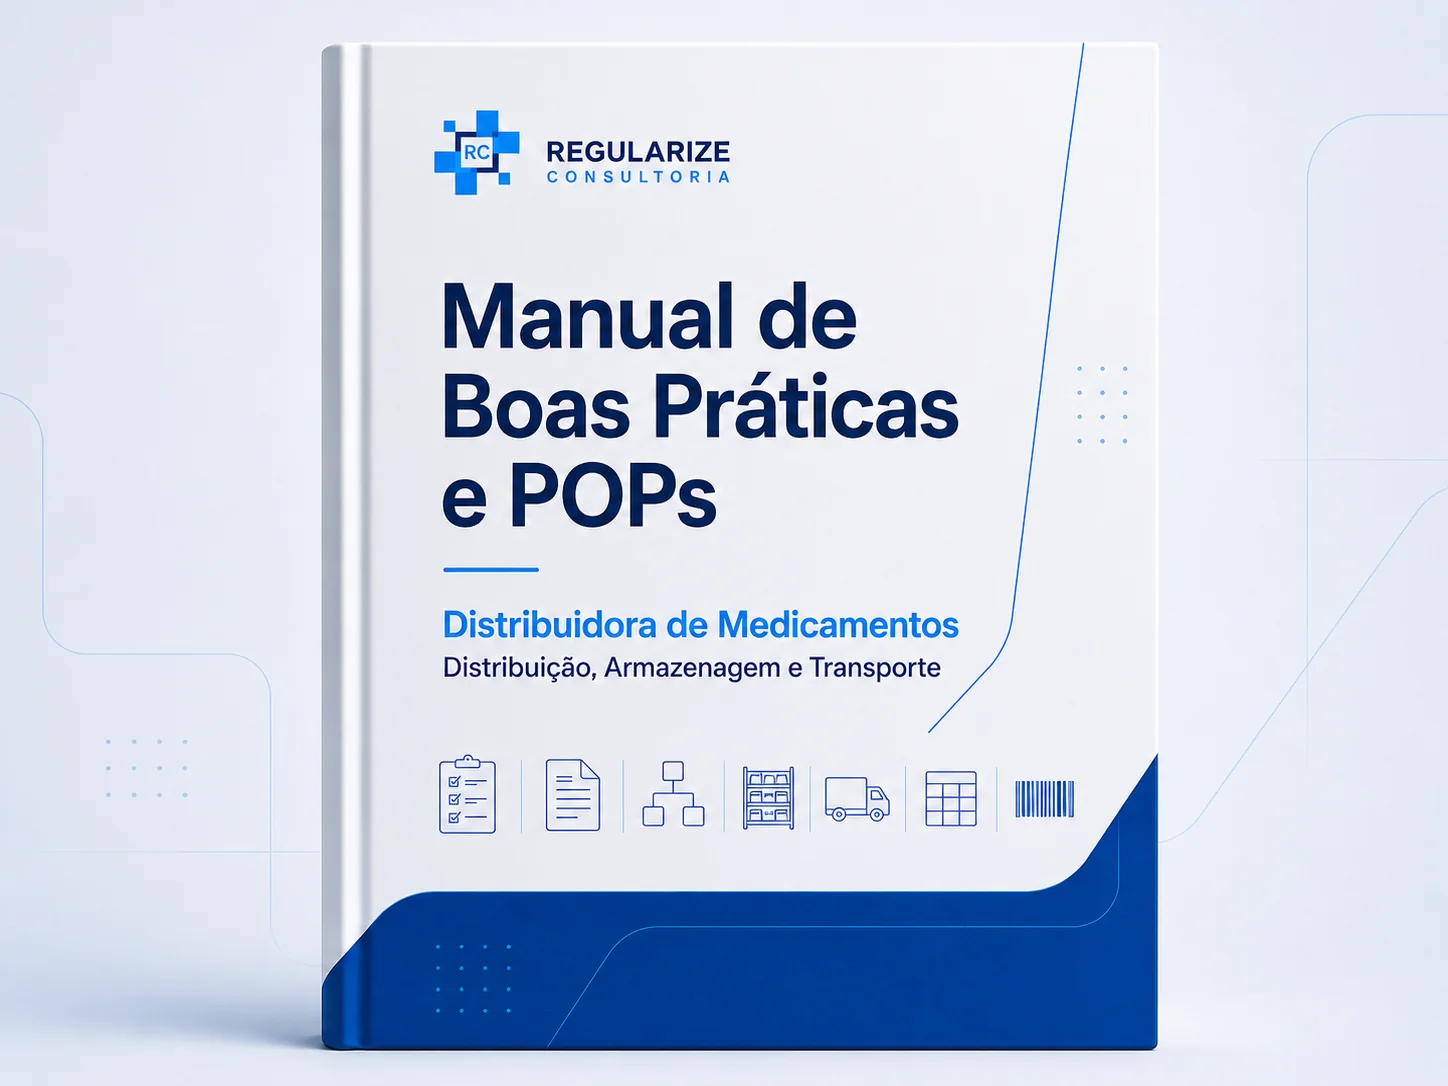
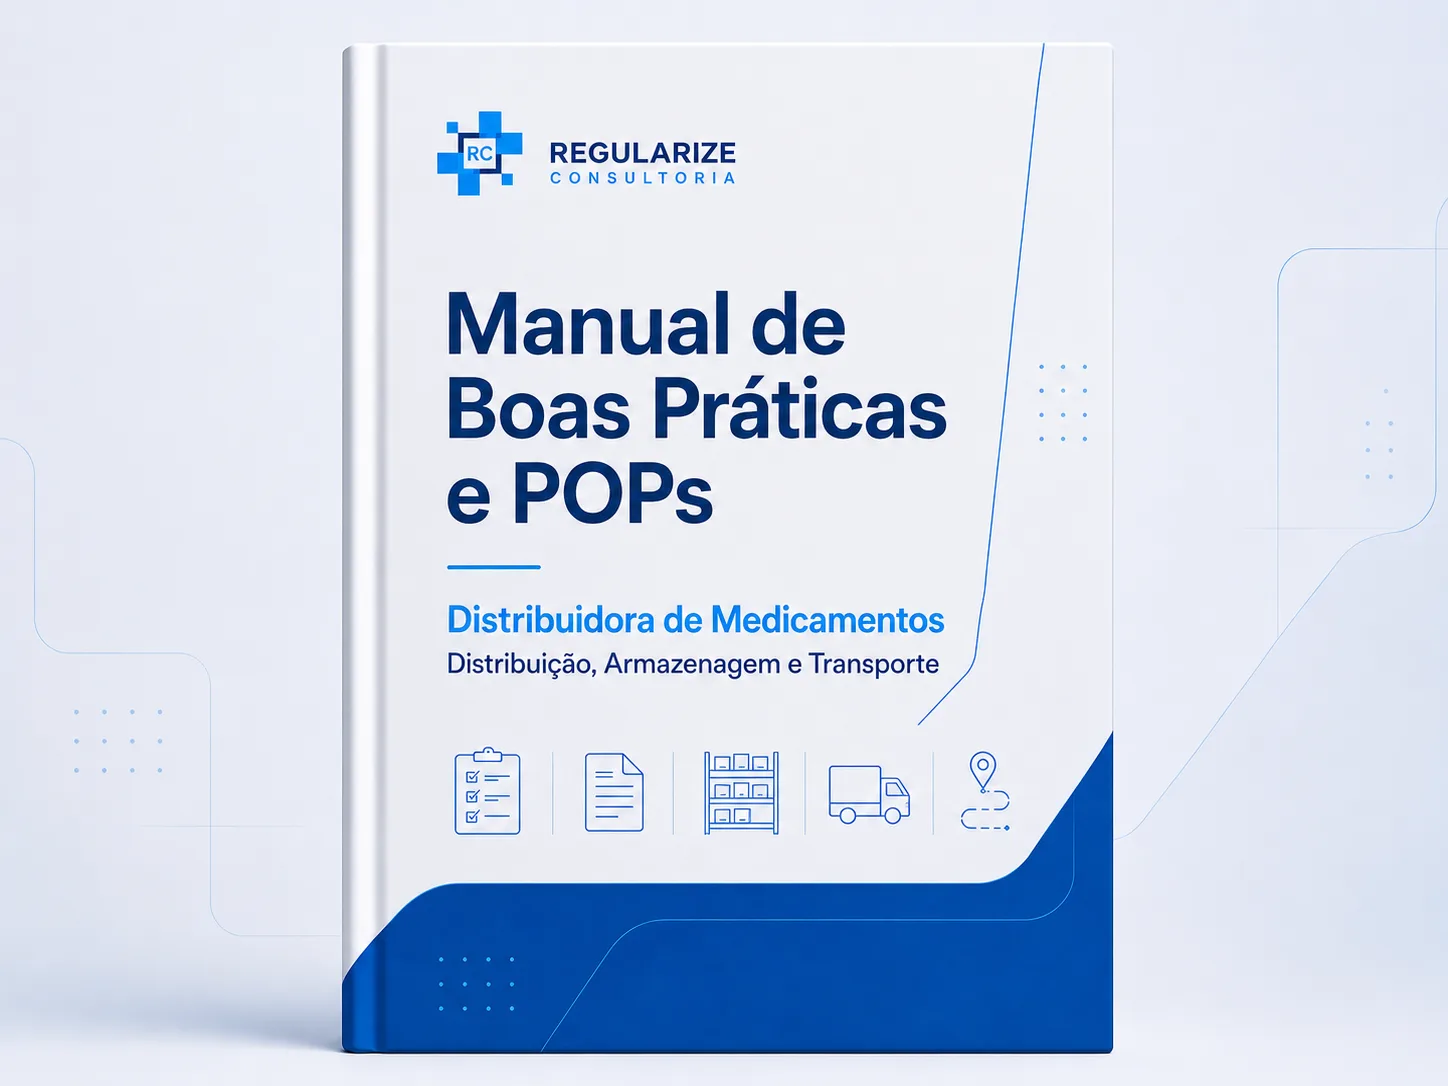
Atualiza cards e seção consultiva de Manuais e POPs

diff --git a/manuais-e-pops/index.html b/manuais-e-pops/index.html
@@ -286,12 +286,8 @@
             </div>
           </article>
           <article class="manuals-catalog-card manuals-catalog-card--passive bg-white rounded-2xl border border-slate-100 p-5 sm:p-6">
-            <div class="manuals-card-cover" aria-hidden="true">
-              <span class="manuals-document-mockup">
-                <span></span>
-                <span></span>
-                <span></span>
-              </span>
+            <div class="manuals-card-cover manuals-card-cover--image">
+              <img src="/assets/img/manuais-e-pops/drogarias-farmacias-card.webp" alt="Ilustração do card Manual de Boas Práticas e POPs — Farmácias e Drogarias" loading="lazy" width="1448" height="1086" class="manuals-card-image" />
             </div>
             <span class="manuals-card-tag">Drogarias</span>
             <h3 class="text-lg font-bold text-slate-900 mt-4 mb-3">Manual de Boas Práticas e POPs — Farmácias e Drogarias</h3>
@@ -301,13 +297,9 @@
               <a href="/whatsapp/?text=Ol%C3%A1%2C%20tenho%20interesse%20no%20Manual%20de%20Boas%20Pr%C3%A1ticas%20e%20POPs%20para%20Farm%C3%A1cias%20e%20Drogarias%20e%20gostaria%20de%20solicitar%20uma%20an%C3%A1lise%20e%20or%C3%A7amento." class="manuals-card-link" target="_blank" rel="noopener noreferrer">Solicitar orçamento</a>
             </div>
           </article>
-          <article class="manuals-catalog-card manuals-catalog-card--passive bg-white rounded-2xl border border-slate-100 p-5 sm:p-6">
-            <div class="manuals-card-cover" aria-hidden="true">
-              <span class="manuals-document-mockup">
-                <span></span>
-                <span></span>
-                <span></span>
-              </span>
+          <article class="manuals-catalog-card manuals-catalog-card--passive bg-white rounded-2xl border border-slate-100 p-5 sm:p-6" hidden>
+            <div class="manuals-card-cover manuals-card-cover--image">
+              <img src="/assets/img/manuais-e-pops/farmacia-manipulacao-card.webp" alt="Ilustração do card Manual de Boas Práticas e POPs — Farmácia de Manipulação" loading="lazy" width="1448" height="1086" class="manuals-card-image" />
             </div>
             <span class="manuals-card-tag">Manipulação</span>
             <h3 class="text-lg font-bold text-slate-900 mt-4 mb-3">Manual de Boas Práticas e POPs — Farmácia de Manipulação</h3>
@@ -317,13 +309,9 @@
               <a href="/whatsapp/?text=Ol%C3%A1%2C%20tenho%20interesse%20no%20Manual%20de%20Boas%20Pr%C3%A1ticas%20e%20POPs%20para%20Farm%C3%A1cia%20de%20Manipula%C3%A7%C3%A3o%20e%20gostaria%20de%20solicitar%20uma%20an%C3%A1lise%20e%20or%C3%A7amento." class="manuals-card-link" target="_blank" rel="noopener noreferrer">Solicitar orçamento</a>
             </div>
           </article>
-          <article class="manuals-catalog-card manuals-catalog-card--passive bg-white rounded-2xl border border-slate-100 p-5 sm:p-6">
-            <div class="manuals-card-cover" aria-hidden="true">
-              <span class="manuals-document-mockup">
-                <span></span>
-                <span></span>
-                <span></span>
-              </span>
+          <article class="manuals-catalog-card manuals-catalog-card--passive bg-white rounded-2xl border border-slate-100 p-5 sm:p-6" hidden>
+            <div class="manuals-card-cover manuals-card-cover--image">
+              <img src="/assets/img/manuais-e-pops/clinica-vacinas-card.webp" alt="Ilustração do card Manual de Boas Práticas e POPs — Clínica de Vacinas" loading="lazy" width="1448" height="1086" class="manuals-card-image" />
             </div>
             <span class="manuals-card-tag">Vacinas</span>
             <h3 class="text-lg font-bold text-slate-900 mt-4 mb-3">Manual de Boas Práticas e POPs — Clínica de Vacinas</h3>
@@ -333,13 +321,9 @@
               <a href="/whatsapp/?text=Ol%C3%A1%2C%20tenho%20interesse%20no%20Manual%20de%20Boas%20Pr%C3%A1ticas%20e%20POPs%20para%20Cl%C3%ADnica%20de%20Vacinas%20e%20gostaria%20de%20solicitar%20uma%20an%C3%A1lise%20e%20or%C3%A7amento." class="manuals-card-link" target="_blank" rel="noopener noreferrer">Solicitar orçamento</a>
             </div>
           </article>
-          <article class="manuals-catalog-card manuals-catalog-card--passive bg-white rounded-2xl border border-slate-100 p-5 sm:p-6">
-            <div class="manuals-card-cover" aria-hidden="true">
-              <span class="manuals-document-mockup">
-                <span></span>
-                <span></span>
-                <span></span>
-              </span>
+          <article class="manuals-catalog-card manuals-catalog-card--passive bg-white rounded-2xl border border-slate-100 p-5 sm:p-6" hidden>
+            <div class="manuals-card-cover manuals-card-cover--image">
+              <img src="/assets/img/manuais-e-pops/produtos-para-saude-card.webp" alt="Ilustração do card Manual de Boas Práticas e POPs — Produtos para Saúde" loading="lazy" width="1448" height="1086" class="manuals-card-image" />
             </div>
             <span class="manuals-card-tag">Produtos para Saúde</span>
             <h3 class="text-lg font-bold text-slate-900 mt-4 mb-3">Manual de Boas Práticas e POPs — Produtos para Saúde</h3>
@@ -349,13 +333,9 @@
               <a href="/whatsapp/?text=Ol%C3%A1%2C%20tenho%20interesse%20no%20Manual%20de%20Boas%20Pr%C3%A1ticas%20e%20POPs%20para%20Produtos%20para%20Sa%C3%BAde%20e%20gostaria%20de%20solicitar%20uma%20an%C3%A1lise%20e%20or%C3%A7amento." class="manuals-card-link" target="_blank" rel="noopener noreferrer">Solicitar orçamento</a>
             </div>
           </article>
-          <article class="manuals-catalog-card manuals-catalog-card--passive bg-white rounded-2xl border border-slate-100 p-5 sm:p-6">
-            <div class="manuals-card-cover" aria-hidden="true">
-              <span class="manuals-document-mockup">
-                <span></span>
-                <span></span>
-                <span></span>
-              </span>
+          <article class="manuals-catalog-card manuals-catalog-card--passive bg-white rounded-2xl border border-slate-100 p-5 sm:p-6" hidden>
+            <div class="manuals-card-cover manuals-card-cover--image">
+              <img src="/assets/img/manuais-e-pops/transportadoras-card.webp" alt="Ilustração do card Manual de Boas Práticas e POPs — Transportadoras" loading="lazy" width="1448" height="1086" class="manuals-card-image" />
             </div>
             <span class="manuals-card-tag">Transportadoras</span>
             <h3 class="text-lg font-bold text-slate-900 mt-4 mb-3">Manual de Boas Práticas e POPs — Transportadoras</h3>
@@ -365,13 +345,9 @@
               <a href="/whatsapp/?text=Ol%C3%A1%2C%20tenho%20interesse%20no%20Manual%20de%20Boas%20Pr%C3%A1ticas%20e%20POPs%20para%20Transportadoras%20e%20gostaria%20de%20solicitar%20uma%20an%C3%A1lise%20e%20or%C3%A7amento." class="manuals-card-link" target="_blank" rel="noopener noreferrer">Solicitar orçamento</a>
             </div>
           </article>
-          <article class="manuals-catalog-card manuals-catalog-card--passive bg-white rounded-2xl border border-slate-100 p-5 sm:p-6">
-            <div class="manuals-card-cover" aria-hidden="true">
-              <span class="manuals-document-mockup">
-                <span></span>
-                <span></span>
-                <span></span>
-              </span>
+          <article class="manuals-catalog-card manuals-catalog-card--passive bg-white rounded-2xl border border-slate-100 p-5 sm:p-6" hidden>
+            <div class="manuals-card-cover manuals-card-cover--image">
+              <img src="/assets/img/manuais-e-pops/pgrss-card.webp" alt="Ilustração do card PGRSS — Plano de Gerenciamento de Resíduos de Serviços de Saúde" loading="lazy" width="1448" height="1086" class="manuals-card-image" />
             </div>
             <span class="manuals-card-tag">Resíduos</span>
             <h3 class="text-lg font-bold text-slate-900 mt-4 mb-3">PGRSS — Plano de Gerenciamento de Resíduos de Serviços de Saúde</h3>
@@ -381,13 +357,9 @@
               <a href="/whatsapp/?text=Ol%C3%A1%2C%20tenho%20interesse%20em%20PGRSS%20-%20Plano%20de%20Gerenciamento%20de%20Res%C3%ADduos%20de%20Servi%C3%A7os%20de%20Sa%C3%BAde%20e%20gostaria%20de%20solicitar%20uma%20an%C3%A1lise%20e%20or%C3%A7amento." class="manuals-card-link" target="_blank" rel="noopener noreferrer">Solicitar orçamento</a>
             </div>
           </article>
-          <article class="manuals-catalog-card manuals-catalog-card--passive bg-white rounded-2xl border border-slate-100 p-5 sm:p-6">
-            <div class="manuals-card-cover" aria-hidden="true">
-              <span class="manuals-document-mockup">
-                <span></span>
-                <span></span>
-                <span></span>
-              </span>
+          <article class="manuals-catalog-card manuals-catalog-card--passive bg-white rounded-2xl border border-slate-100 p-5 sm:p-6" hidden>
+            <div class="manuals-card-cover manuals-card-cover--image">
+              <img src="/assets/img/manuais-e-pops/cosmeticos-saneantes-card.webp" alt="Ilustração do card Manual de Boas Práticas e POPs — Cosméticos e Saneantes" loading="lazy" width="1448" height="1086" class="manuals-card-image" />
             </div>
             <span class="manuals-card-tag">Cosméticos e Saneantes</span>
             <h3 class="text-lg font-bold text-slate-900 mt-4 mb-3">Manual de Boas Práticas e POPs — Cosméticos e Saneantes</h3>
@@ -398,17 +370,33 @@
             </div>
           </article>
         </div>
-        <div class="mt-8 sm:mt-10">
+        <div class="manuals-catalog-followup">
           <div class="manuals-section-heading">
             <span class="manuals-eyebrow">Outras rotinas reguladas</span>
             <h3 class="text-xl sm:text-2xl font-bold tracking-tight text-slate-900 mb-3">Também podemos orientar mediante análise</h3>
             <p class="text-slate-500 leading-relaxed">Algumas atividades exigem avaliação específica antes de definir o material adequado, conforme serviço prestado, estrutura, produtos envolvidos e exigências locais.</p>
           </div>
           <div class="manuals-type-grid">
-            <article><strong>Clínica/Consultório Odontológico</strong><span>Orientação documental conforme serviços, resíduos gerados, fluxos de atendimento e rotinas informadas.</span></article>
-            <article><strong>Laboratórios / Análises Clínicas</strong><span>Materiais técnicos conforme serviços executados, registros, responsabilidades e processos internos.</span></article>
-            <article><strong>Insumos Farmacêuticos</strong><span>Análise de documentos conforme atividade, armazenamento, fracionamento, expedição e controles aplicáveis.</span></article>
-            <article><strong>Operadores Logísticos</strong><span>Orientação conforme produtos movimentados, armazenamento, transporte, rastreabilidade e estrutura operacional.</span></article>
+            <article>
+              <strong>Clínica/Consultório Odontológico</strong>
+              <span>Orientação documental conforme serviços, resíduos gerados, fluxos de atendimento e rotinas informadas.</span>
+              <a href="/whatsapp/?text=Ol%C3%A1%2C%20gostaria%20de%20solicitar%20uma%20an%C3%A1lise%20para%20Cl%C3%ADnica%2FConsult%C3%B3rio%20Odontol%C3%B3gico%20e%20entender%20qual%20material%2C%20orienta%C3%A7%C3%A3o%20ou%20documenta%C3%A7%C3%A3o%20%C3%A9%20mais%20adequada%20para%20minha%20rotina." class="manuals-card-link manuals-card-link--secondary" target="_blank" rel="noopener noreferrer">Solicitar análise</a>
+            </article>
+            <article>
+              <strong>Laboratórios / Análises Clínicas</strong>
+              <span>Materiais técnicos conforme serviços executados, registros, responsabilidades e processos internos.</span>
+              <a href="/whatsapp/?text=Ol%C3%A1%2C%20gostaria%20de%20solicitar%20uma%20an%C3%A1lise%20para%20Laborat%C3%B3rios%20%2F%20An%C3%A1lises%20Cl%C3%ADnicas%20e%20entender%20qual%20material%2C%20orienta%C3%A7%C3%A3o%20ou%20documenta%C3%A7%C3%A3o%20%C3%A9%20mais%20adequada%20para%20minha%20rotina." class="manuals-card-link manuals-card-link--secondary" target="_blank" rel="noopener noreferrer">Solicitar análise</a>
+            </article>
+            <article>
+              <strong>Insumos Farmacêuticos</strong>
+              <span>Análise de documentos conforme atividade, armazenamento, fracionamento, expedição e controles aplicáveis.</span>
+              <a href="/whatsapp/?text=Ol%C3%A1%2C%20gostaria%20de%20solicitar%20uma%20an%C3%A1lise%20para%20Insumos%20Farmac%C3%AAuticos%20e%20entender%20qual%20material%2C%20orienta%C3%A7%C3%A3o%20ou%20documenta%C3%A7%C3%A3o%20%C3%A9%20mais%20adequada%20para%20minha%20rotina." class="manuals-card-link manuals-card-link--secondary" target="_blank" rel="noopener noreferrer">Solicitar análise</a>
+            </article>
+            <article>
+              <strong>Operadores Logísticos</strong>
+              <span>Orientação conforme produtos movimentados, armazenamento, transporte, rastreabilidade e estrutura operacional.</span>
+              <a href="/whatsapp/?text=Ol%C3%A1%2C%20gostaria%20de%20solicitar%20uma%20an%C3%A1lise%20para%20Operadores%20Log%C3%ADsticos%20e%20entender%20qual%20material%2C%20orienta%C3%A7%C3%A3o%20ou%20documenta%C3%A7%C3%A3o%20%C3%A9%20mais%20adequada%20para%20minha%20rotina." class="manuals-card-link manuals-card-link--secondary" target="_blank" rel="noopener noreferrer">Solicitar análise</a>
+            </article>
           </div>
         </div>
       </div>

diff --git a/assets/css/pages/manuais-e-pops.css b/assets/css/pages/manuais-e-pops.css
@@ -417,8 +417,26 @@
   max-width: 42rem;
 }
 
-.manuals-catalog-grid + div {
-  margin-top: 2rem !important;
+.manuals-catalog-followup {
+  margin-top: 1.5rem;
+}
+
+.manuals-catalog-followup .manuals-type-grid article {
+  display: flex;
+  flex-direction: column;
+  height: 100%;
+}
+
+.manuals-catalog-followup .manuals-type-grid span {
+  margin-bottom: 0.9rem;
+}
+
+.manuals-catalog-followup .manuals-card-link {
+  margin-top: auto;
+}
+
+.manuals-catalog-controls + .manuals-catalog-followup {
+  margin-top: 1.75rem;
 }
 
 .manuals-type-grid,
@@ -847,6 +865,14 @@
 
   .manuals-farmacia-popular-cta-note {
     font-size: 0.8rem;
+  }
+
+  .manuals-catalog-followup {
+    margin-top: 1.25rem;
+  }
+
+  .manuals-catalog-controls + .manuals-catalog-followup {
+    margin-top: 1.5rem;
   }
 }
 
